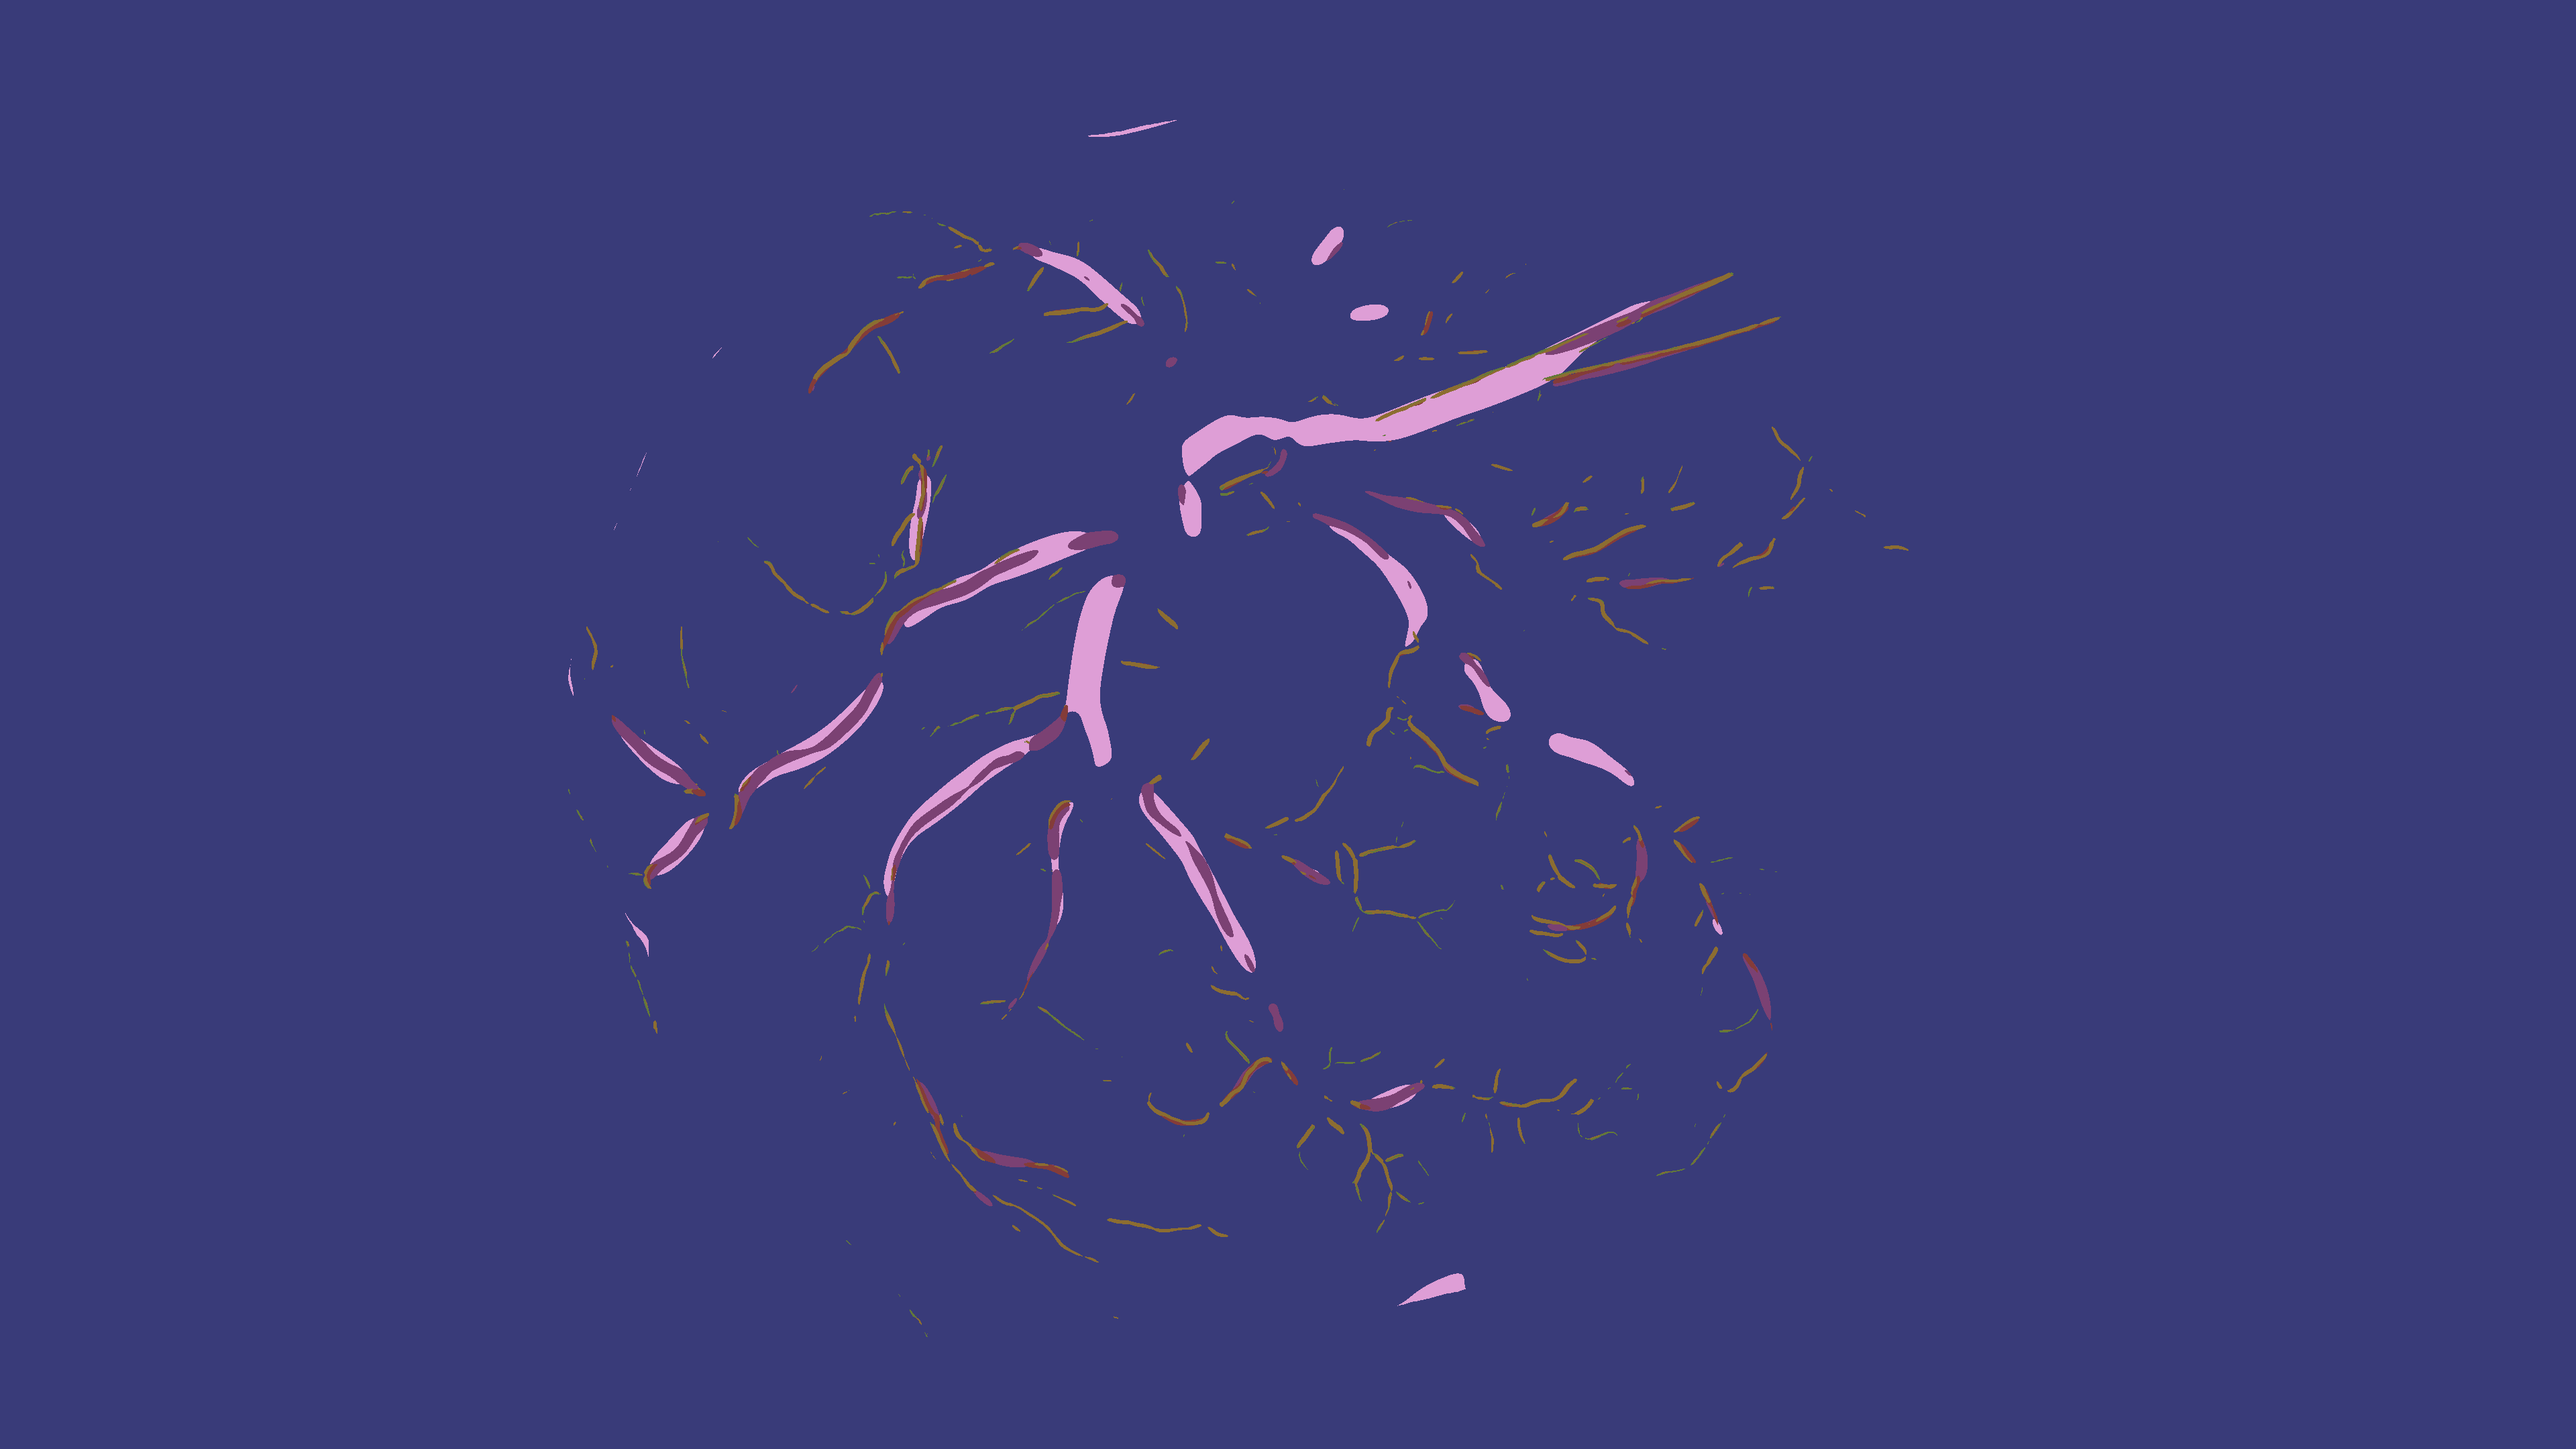
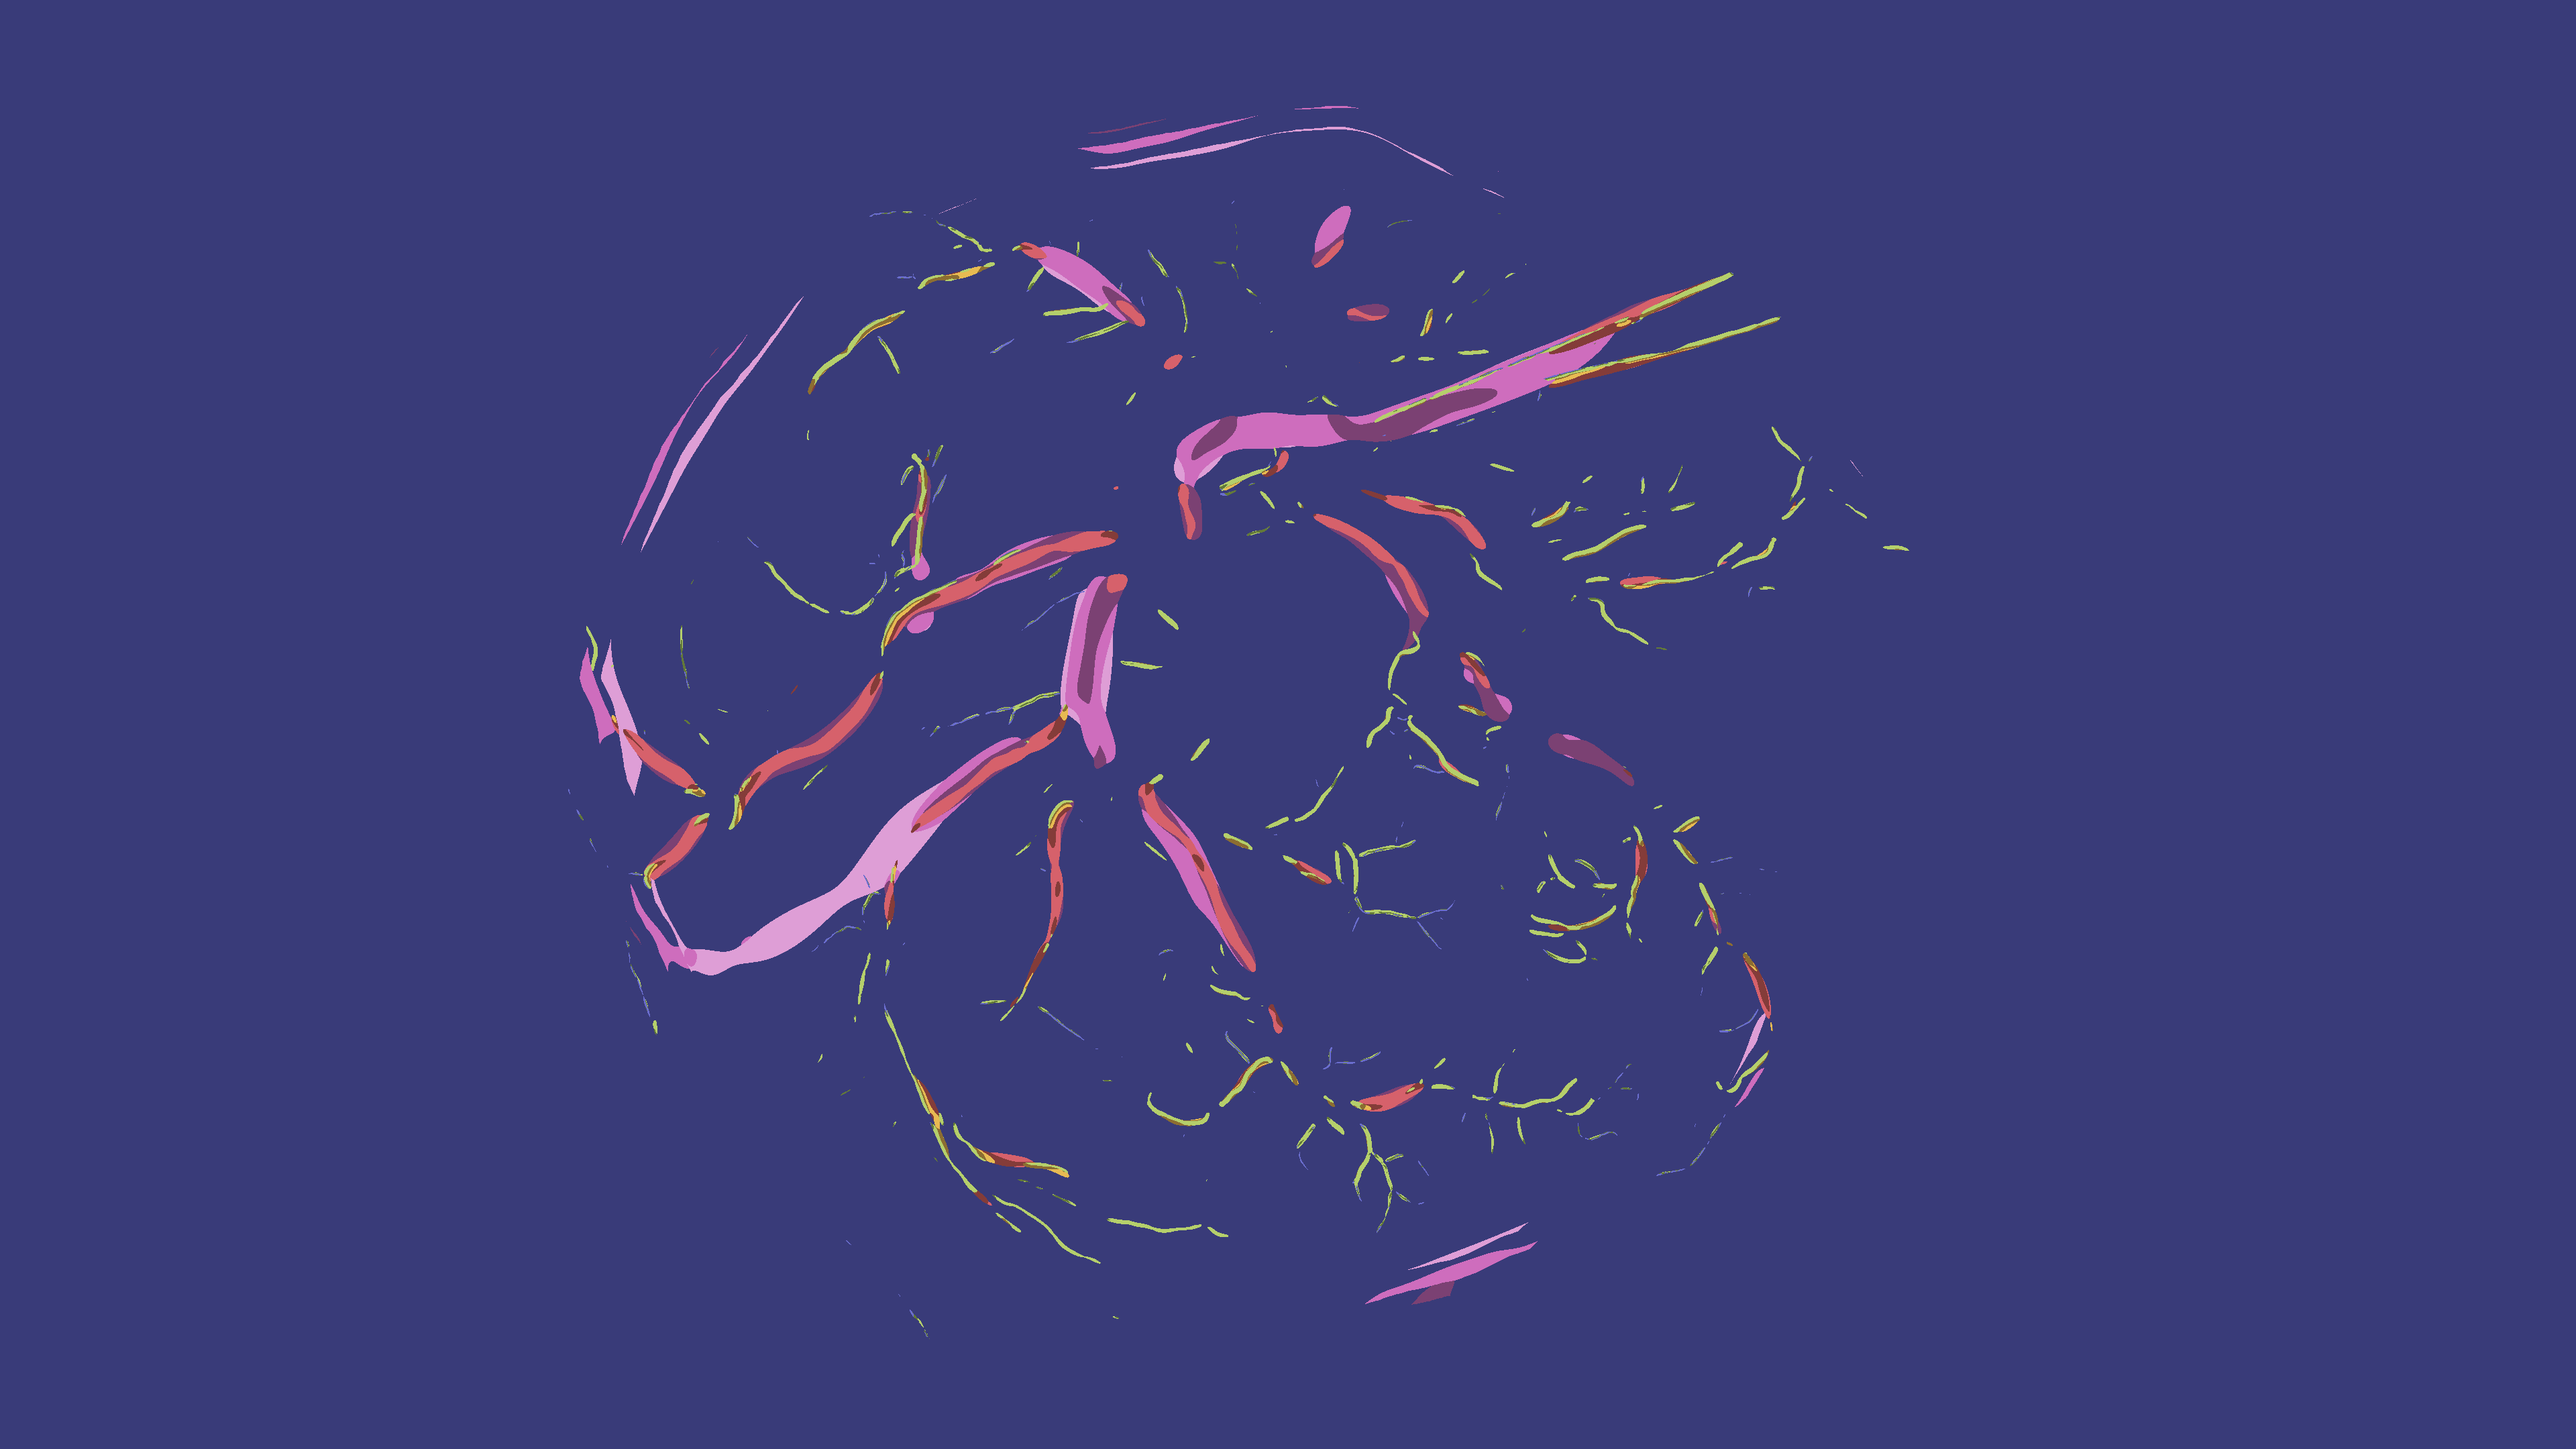
more runs on nymh placentas only

diff --git a/pcsvn.py b/pcsvn.py
@@ -188,10 +188,10 @@ alpha = 0.2
 ###Set base image#############################
 
 
-filename = 'barium2.png'
-#mask = 'barium1.mask.png'
+#filename = 'barium2.png'
 
 #filename = 'NYMH_ID130016i.png'
+filename = 'NYMH_ID130016i.png'
 
 #raw_img = get_named_placenta('TA-BN2341348.png', mask='TA-BN2341348_mask.png')
 raw_img = get_named_placenta(filename, maskfile=None)
@@ -205,7 +205,7 @@ bg_mask = img.mask
 ###Set Parameter(s) for Frangi#################
 
 # set range of sigmas to use (declare these above)
-scales = np.logspace(1,5, num=5, base=2)
+scales = np.logspace(1,6, num=10, base=2)
 
 
 # set betas (anisotropy parameters)
